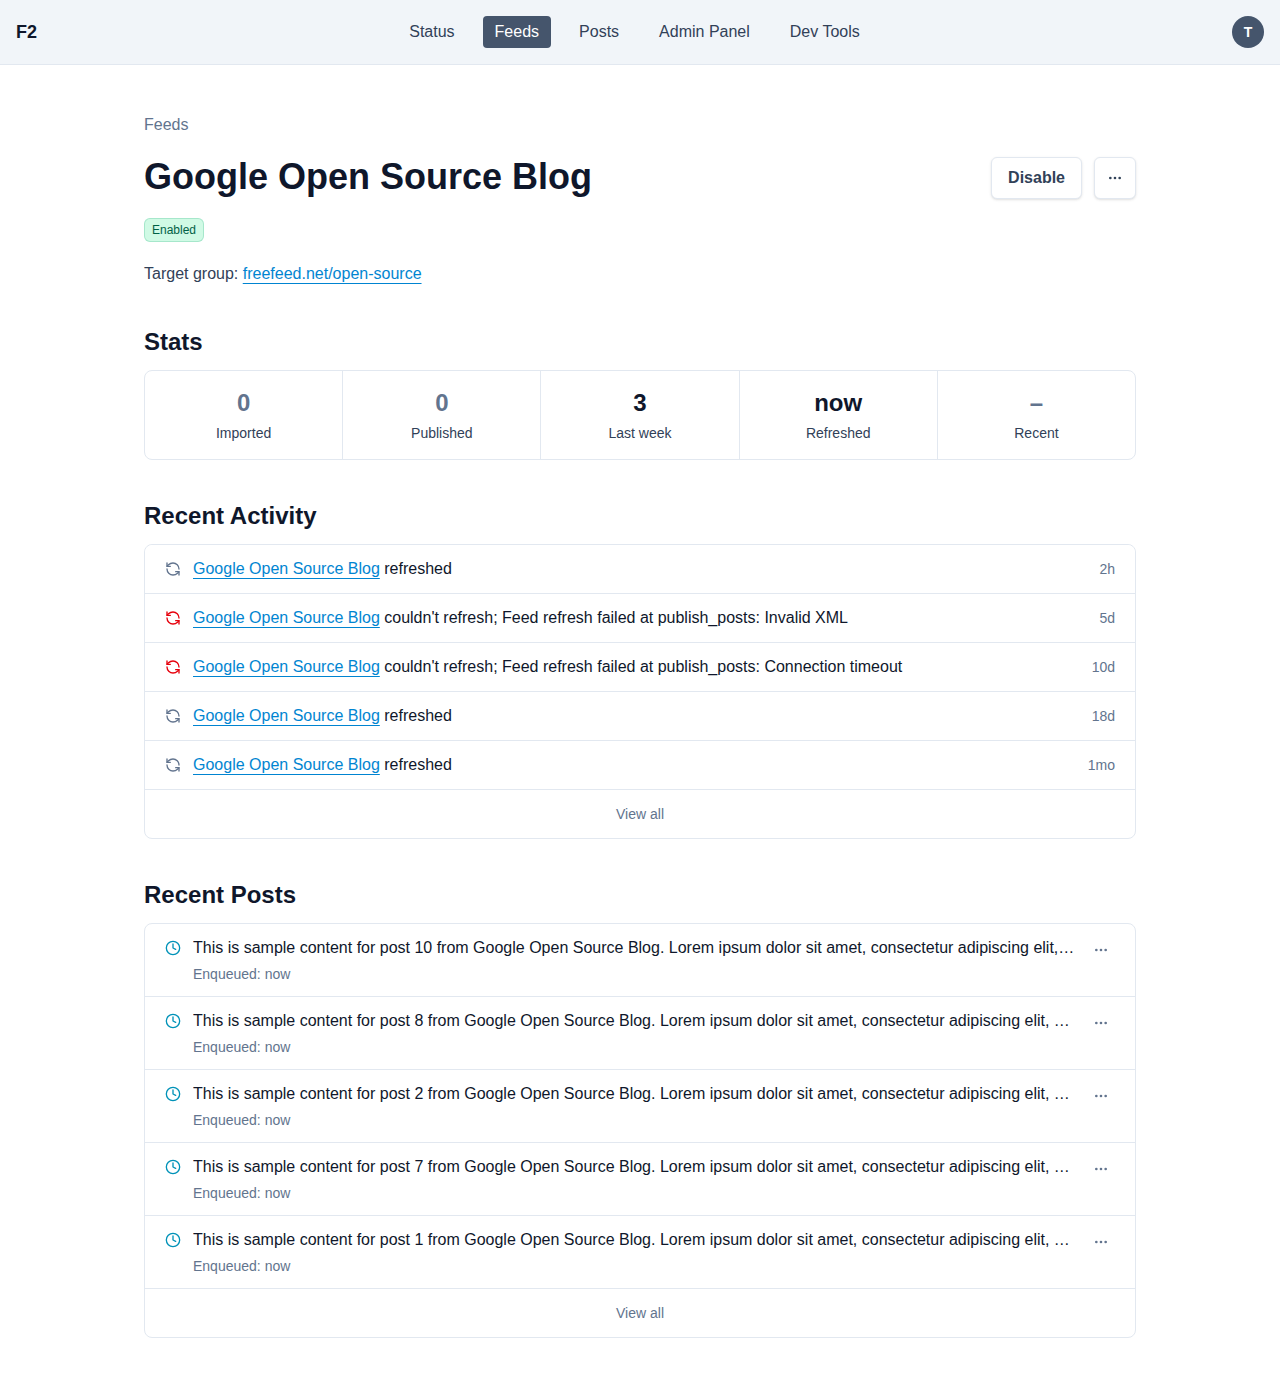
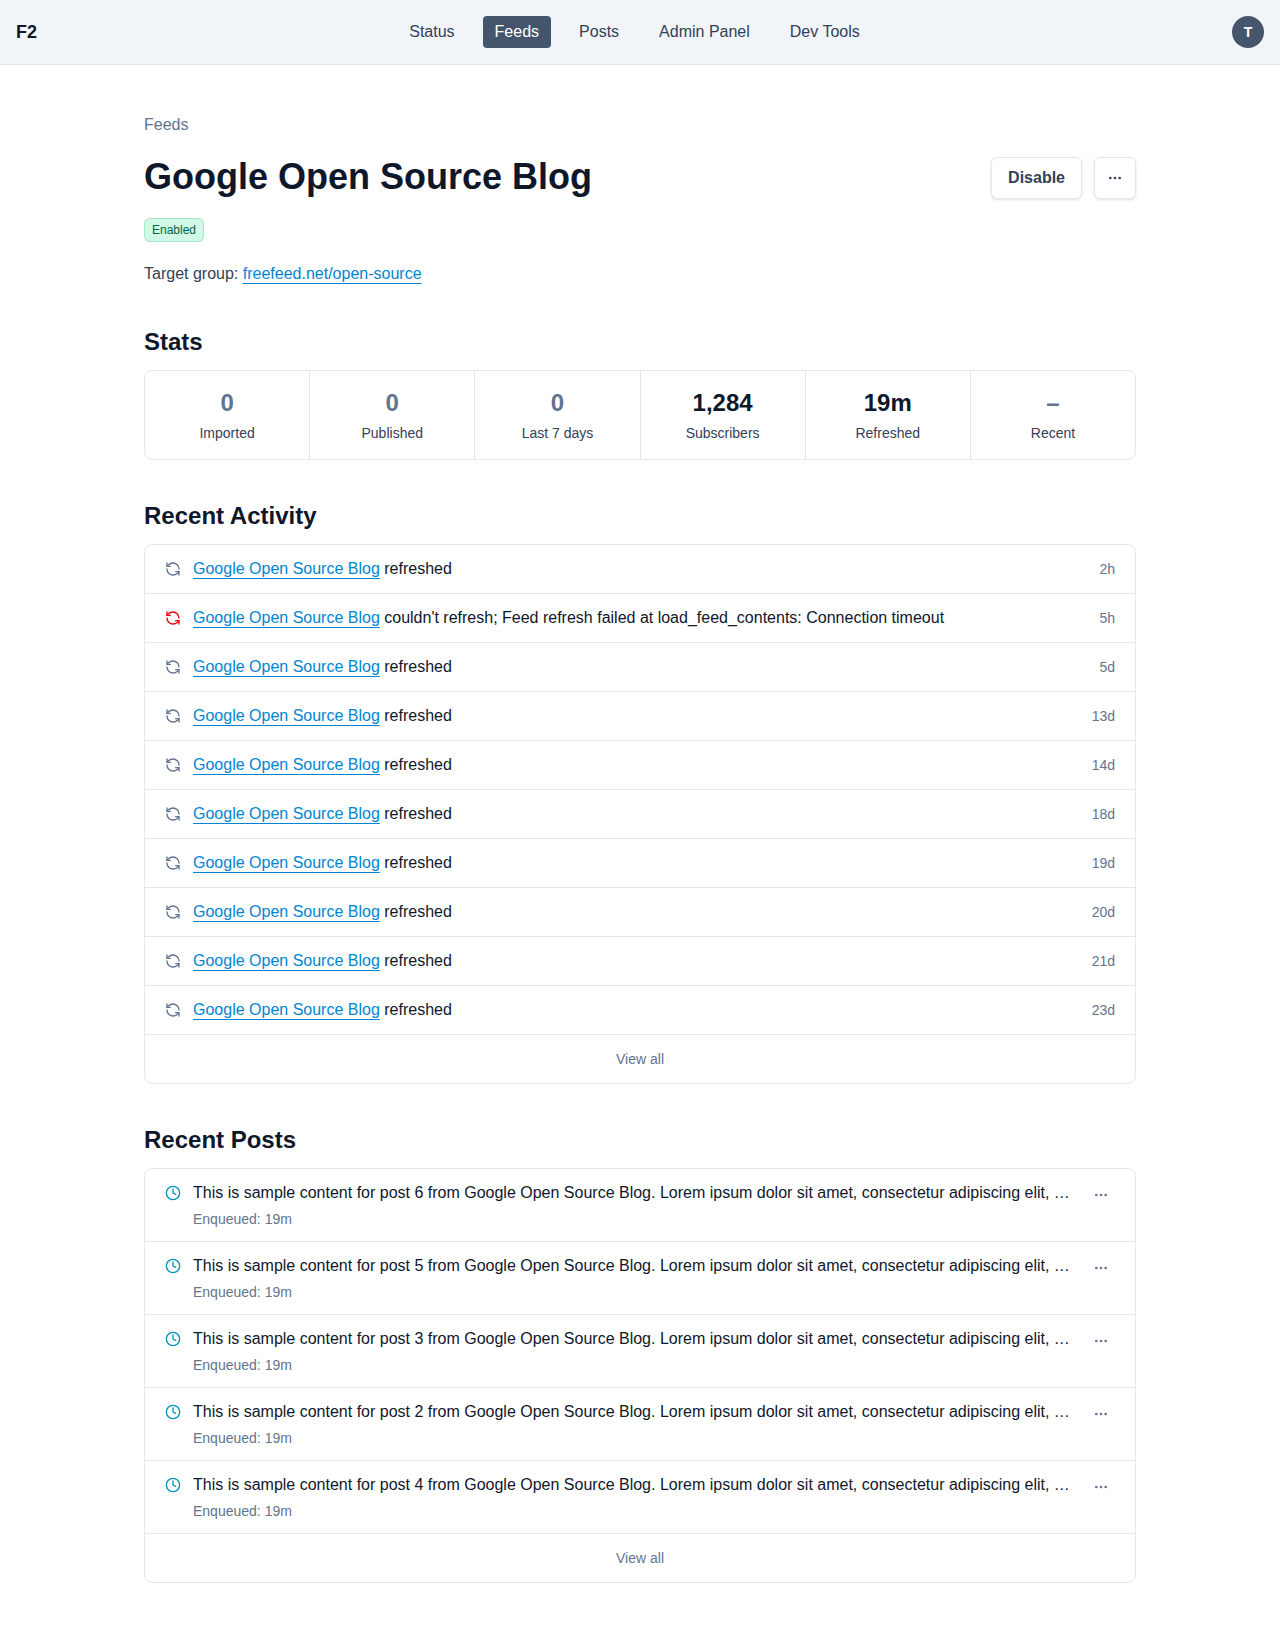
Show subscriber count in feed stats (#1457)
* Show subscriber count in feed stats

The count is already tracked on Feed via a daily sync job but was
never displayed. Falls back to the standard dash placeholder when no
data has been fetched yet.

Claude-Session: https://claude.ai/code/session_01LMq4RniK8YzwNhHEhWXCVm

* Clear subscriber count when feed destination changes

A saved count belongs to the previous target group or access token;
carrying it over would show someone else's subscriber count as the
feed's own once the group or token is swapped.

Claude-Session: https://claude.ai/code/session_01LMq4RniK8YzwNhHEhWXCVm

* Update feed page screenshot with subscriber stat

Claude-Session: https://claude.ai/code/session_01LMq4RniK8YzwNhHEhWXCVm

---------

diff --git a/test/components/feed_stats_component_test.rb b/test/components/feed_stats_component_test.rb
@@ -11,7 +11,7 @@ class FeedStatsComponentTest < ViewComponent::TestCase
 
   def feed_with_posts
     @feed_with_posts ||= begin
-      f = create(:feed).tap do |feed|
+      f = create(:feed, subscribers_count: 42).tap do |feed|
         create(:feed_entry, feed: feed, created_at: 1.hour.ago)
         create(:post, :published, feed: feed, published_at: 2.hours.ago, reposted_at: 1.hour.ago)
         create(:post, feed: feed, published_at: 3.hours.ago)
@@ -42,6 +42,10 @@ class FeedStatsComponentTest < ViewComponent::TestCase
       last_week = result.css('[data-key="stats.posts_last_week"]').first
       assert_not_nil last_week
       assert_equal "1", result.css('[data-key="stats.posts_last_week.value"]').first.text.strip
+
+      subscribers = result.css('[data-key="stats.subscribers"]').first
+      assert_not_nil subscribers
+      assert_equal "42", result.css('[data-key="stats.subscribers.value"]').first.text.strip
     end
   end
 
@@ -65,6 +69,7 @@ class FeedStatsComponentTest < ViewComponent::TestCase
     assert_equal "Imported", result.css(".hidden.md\\:flex [data-key=\"stats.imported_posts.label\"]").first.text
     assert_equal "Published", result.css(".hidden.md\\:flex [data-key=\"stats.published_posts.label\"]").first.text
     assert_equal "Last 7 days", result.css(".hidden.md\\:flex [data-key=\"stats.posts_last_week.label\"]").first.text
+    assert_equal "Subscribers", result.css(".hidden.md\\:flex [data-key=\"stats.subscribers.label\"]").first.text
   end
 
   test "#render should display fallback values for missing data" do
@@ -77,6 +82,9 @@ class FeedStatsComponentTest < ViewComponent::TestCase
 
     most_recent_value = result.css('[data-key="stats.most_recent_repost.value"]').first.text
     assert_equal StatItemComponent::BLANK_VALUE, most_recent_value
+
+    subscribers_value = result.css('[data-key="stats.subscribers.value"]').first.text
+    assert_equal StatItemComponent::BLANK_VALUE, subscribers_value
   end
 
   test "#render should mute zero counts and fallback values" do
@@ -84,7 +92,7 @@ class FeedStatsComponentTest < ViewComponent::TestCase
 
     result = render_inline(FeedStatsComponent.new(feed: feed_without_data))
 
-    %w[imported_posts published_posts posts_last_week last_refresh most_recent_repost].each do |key|
+    %w[imported_posts published_posts posts_last_week subscribers last_refresh most_recent_repost].each do |key|
       result.css(%([data-key="stats.#{key}.value"])).each do |value|
         assert_includes value["class"], "text-muted", "expected #{key} value to be muted"
       end
@@ -94,7 +102,7 @@ class FeedStatsComponentTest < ViewComponent::TestCase
   test "#render should not mute non-zero values" do
     result = render_inline(FeedStatsComponent.new(feed: feed_with_posts))
 
-    %w[imported_posts published_posts posts_last_week most_recent_repost].each do |key|
+    %w[imported_posts published_posts posts_last_week subscribers most_recent_repost].each do |key|
       result.css(%([data-key="stats.#{key}.value"])).each do |value|
         assert_not_includes value["class"], "text-muted", "expected #{key} value not to be muted"
       end

diff --git a/test/models/feed_test.rb b/test/models/feed_test.rb
@@ -195,6 +195,33 @@ class FeedTest < ActiveSupport::TestCase
     assert_equal "https://example.com/feed.xml", feed.params["url"]
   end
 
+  test "#save should clear subscribers_count when target_group changes" do
+    feed = create(:feed, subscribers_count: 42, subscribers_count_updated_at: Time.current)
+
+    feed.update!(target_group: "anothergroup")
+
+    assert_nil feed.subscribers_count
+    assert_nil feed.subscribers_count_updated_at
+  end
+
+  test "#save should clear subscribers_count when access_token changes" do
+    feed = create(:feed, subscribers_count: 42, subscribers_count_updated_at: Time.current)
+    other_token = create(:access_token, :active, user: feed.user)
+
+    feed.update!(access_token: other_token)
+
+    assert_nil feed.subscribers_count
+    assert_nil feed.subscribers_count_updated_at
+  end
+
+  test "#save should keep subscribers_count when unrelated attributes change" do
+    feed = create(:feed, subscribers_count: 42, subscribers_count_updated_at: Time.current)
+
+    feed.update!(description: "updated description")
+
+    assert_equal 42, feed.subscribers_count
+  end
+
   test "should reject params missing required keys per profile schema" do
     feed = build(:feed, feed_profile_key: "rss", params: {})
     assert_not feed.valid?

diff --git a/app/models/feed.rb b/app/models/feed.rb
@@ -54,6 +54,7 @@ class Feed < ApplicationRecord
   attr_accessor :source_verified
 
   after_update :create_schedule_on_enable
+  before_save :clear_subscribers_count_on_destination_change
   before_validation :compose_import_after_from_parts
   before_validation :drop_params_foreign_to_profile
   before_validation :cast_params_to_declared_types
@@ -568,5 +569,15 @@ class Feed < ApplicationRecord
     return if feed_schedule.present?
 
     defer_schedule!
+  end
+
+  # A saved count belongs to the previous target group or token; carrying it
+  # over would show someone else's subscriber count as this feed's own.
+  def clear_subscribers_count_on_destination_change
+    return if new_record?
+    return unless will_save_change_to_target_group? || will_save_change_to_access_token_id?
+
+    self.subscribers_count = nil
+    self.subscribers_count_updated_at = nil
   end
 end

diff --git a/app/components/feed_stats_component.rb b/app/components/feed_stats_component.rb
@@ -29,6 +29,13 @@ class FeedStatsComponent < StatsPanelComponent
         muted: posts_last_week_count.zero?
       },
       {
+        key: "subscribers",
+        label: "Subscribers",
+        label_short: "Subscribers",
+        value: subscribers_value,
+        muted: @feed.subscribers_count.to_i.zero?
+      },
+      {
         key: "last_refresh",
         label: @feed.scheduled? ? "Last refresh" : "Last post received",
         label_short: @feed.scheduled? ? "Refreshed" : "Received",
@@ -41,6 +48,10 @@ class FeedStatsComponent < StatsPanelComponent
         value: most_recent_repost_value
       }
     ]
+  end
+
+  def subscribers_value
+    helpers.number_with_delimiter(@feed.subscribers_count) if @feed.subscribers_count
   end
 
   def last_refresh_value

diff --git a/CHANGELOG.md b/CHANGELOG.md
@@ -4,6 +4,7 @@ User-facing changes, newest first. Internal/technical changes are not listed her
 
 ## 2026-08-30
 
+- Feed stats now show a subscriber count when it's available.
 - Feed previews now load after opening instead of getting stuck on the loading screen.
 - YouTube feeds now keep video description paragraphs in the first comment. You can preview these comments or switch them off in the feed's options.
 - Feed previews no longer restart unexpectedly after finishing, avoiding duplicate fetching or AI work.
